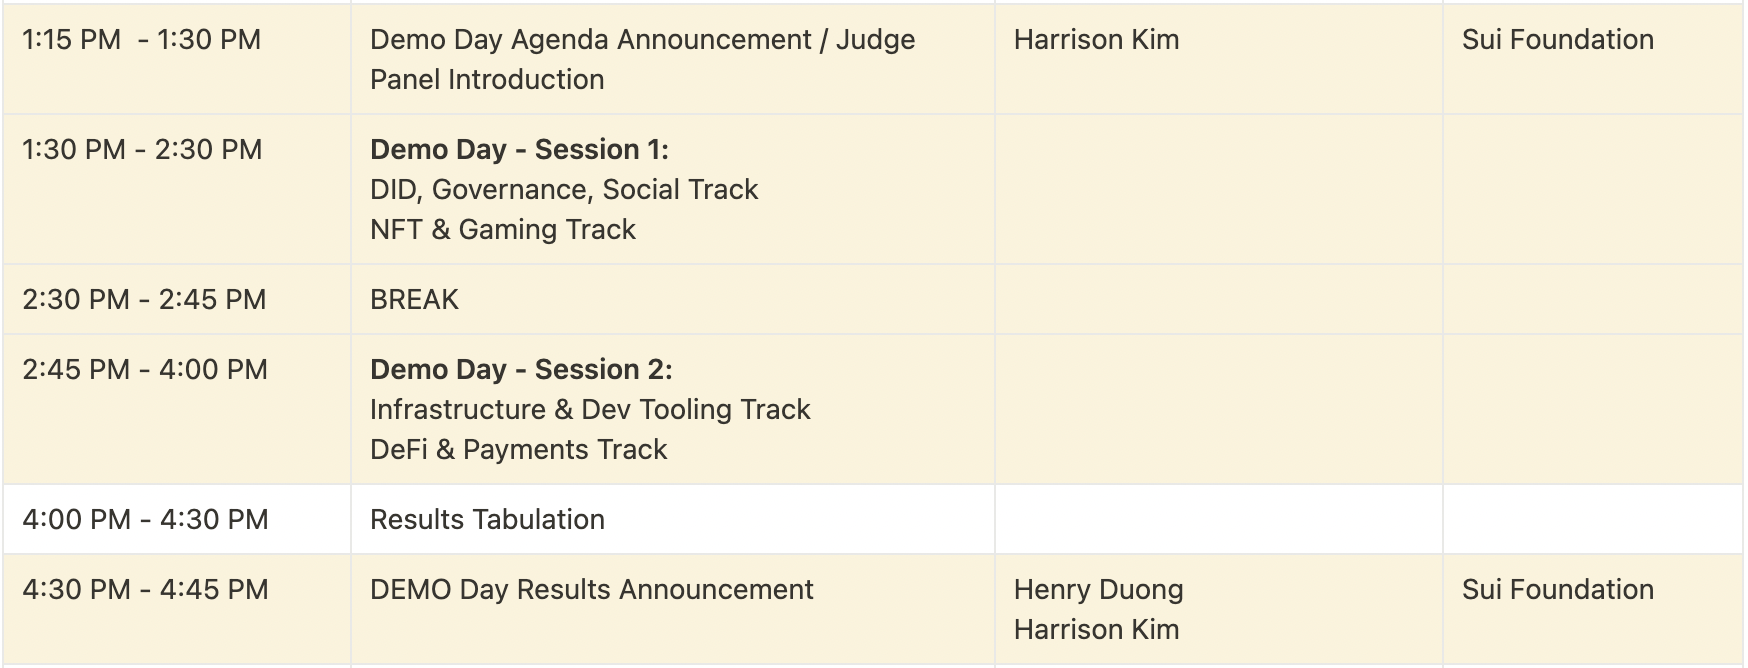
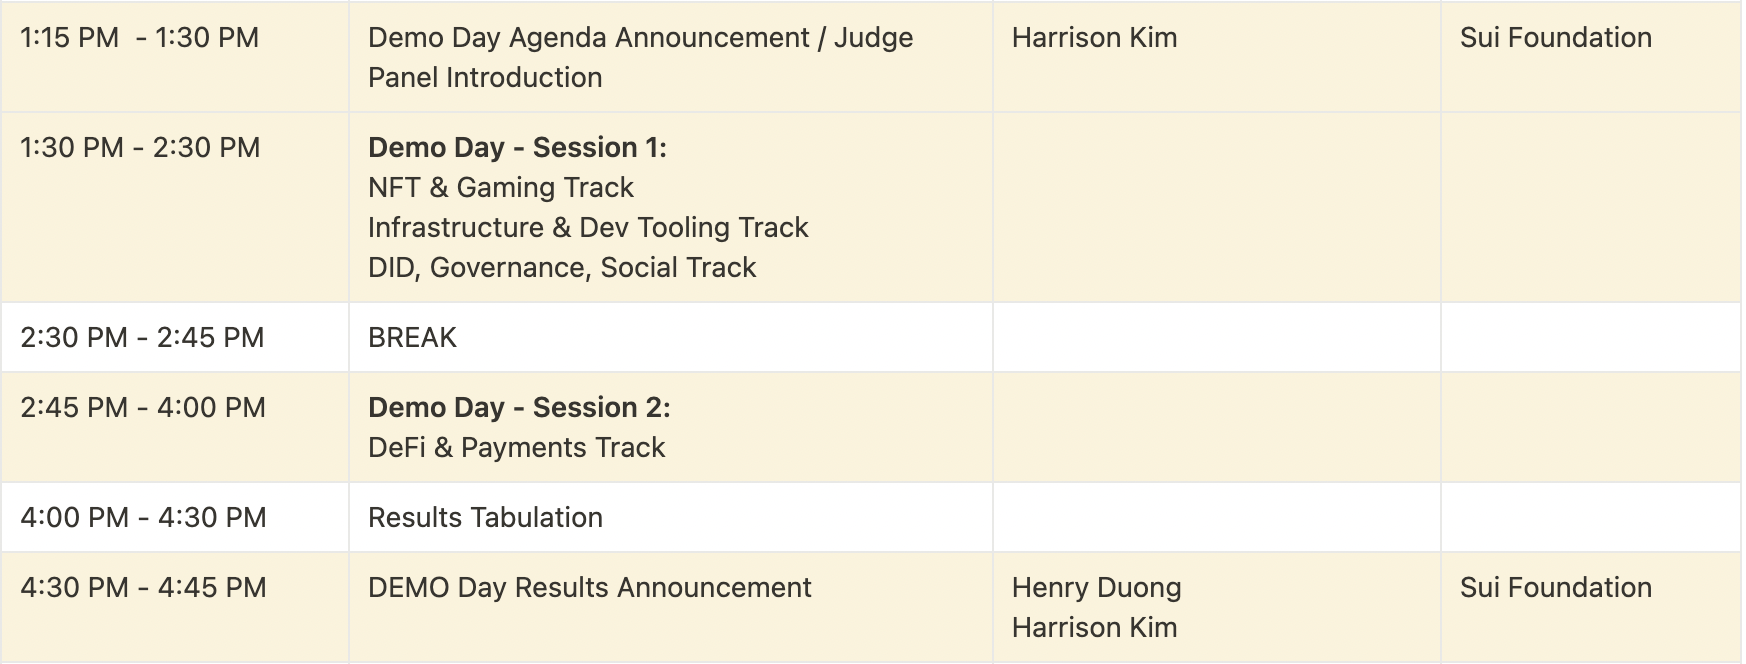
demo day schedule

diff --git a/README.md b/README.md
@@ -94,6 +94,15 @@ All demo teams are invited to join the builder house. If you need help with regi
 
 The demo sessions will take place during the afternoon of April 16th, from 1 PM to 4 PM. The results announcement and award ceremony will be shortly after the end of the two demo sessions from 4:30 PM to 4:45 PM. 
 
+There will be two demo sessions that cover the primary tracks as below:
+
+- Session One:
+    - NFT & Gaming
+    - Infrastructure & Dev Tooling
+    - DID, Governance & Social
+- Session Two: 
+    - DeFi and Payments
+
 <p align="center">
     <img src="./assets/demodayschedule.png" alt="demodayschedule">
 </p>
